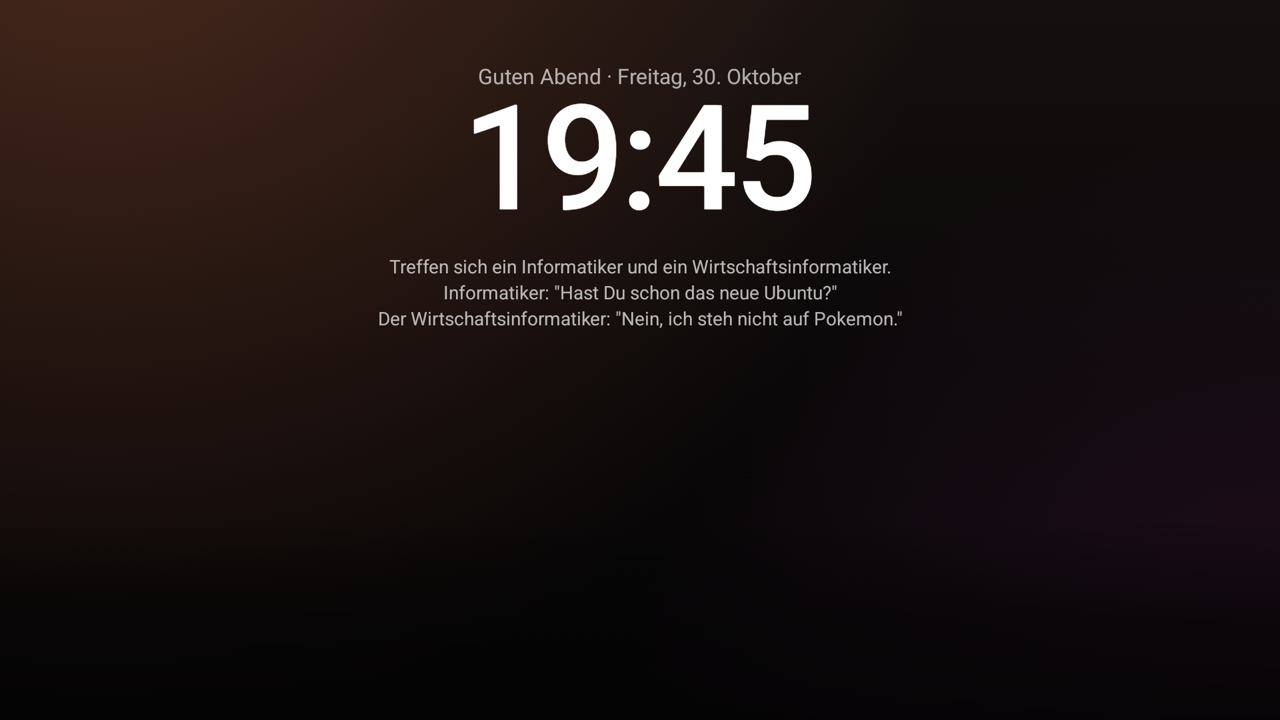
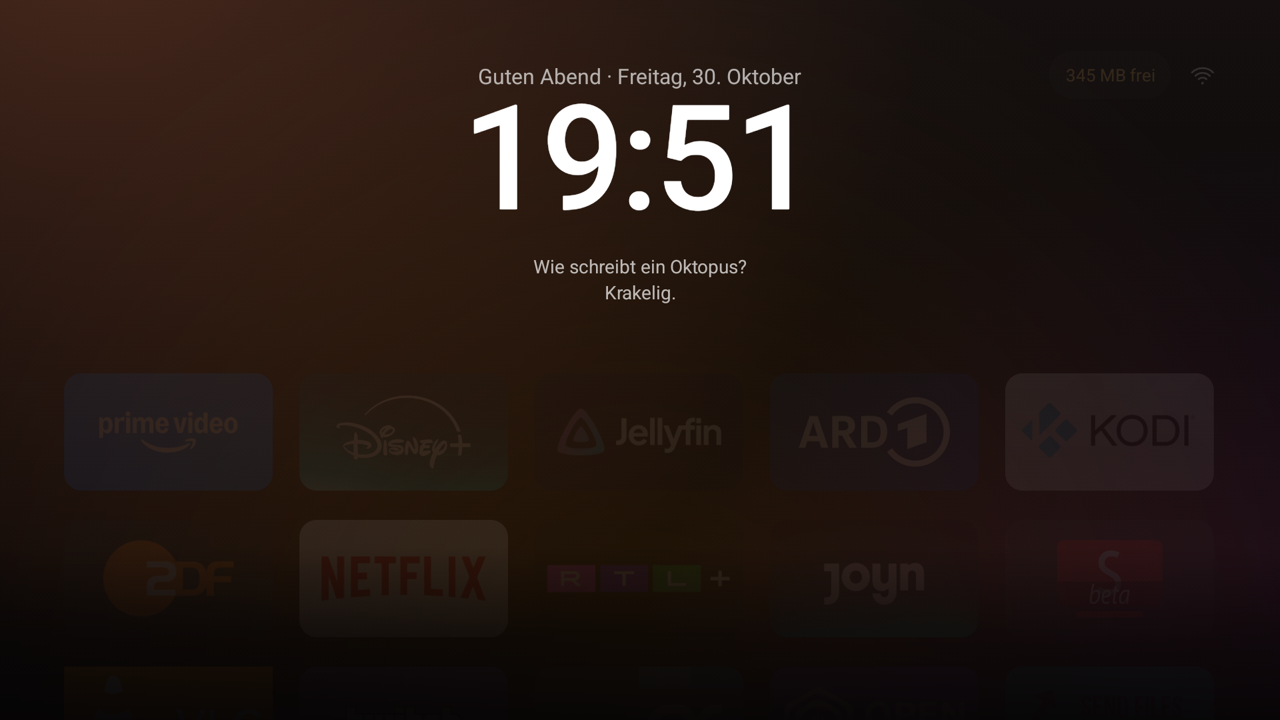
Cinema: rows clear the bottom edge, dimmed lights off, joke heading
- A focused lower row scrolls on until it clears the soft bottom edge; the
  first row scrolls back to the top. The edge is a little lighter.
- Lights off leaves the apps faintly visible instead of hiding them.
- Jokes from the Miscellaneous, Dark, Pun, Spooky and Christmas categories,
  two-part jokes with the punchline on the next line, under a small
  "Joke of the day" heading. A new source fetches again the same day.

diff --git a/src/com/ansub/tvhome/MainActivity.java b/src/com/ansub/tvhome/MainActivity.java
@@ -139,11 +139,12 @@ public class MainActivity extends Activity {
     private boolean clockCentred, alwaysNames, noNames, glassOnly, cinema;
     // Cinema: the others step back to this, the focused app grows a little more, the lights go off after
     // this long without a key, and the joke is fetched once a day.
-    private static final float SPOTLIGHT_REST = 0.5f, CINEMA_LIFT = 1.12f;
+    private static final float SPOTLIGHT_REST = 0.5f, CINEMA_LIFT = 1.12f, LIGHTS_DIM = 0.14f;
+    private static final int EDGE = 260; // the soft bottom edge's height
     private static final long LIGHTS_OFF_MS = 20000, LIGHTS_FADE_MS = 1200, GLOW_MS = 450;
-    private static final String JOKE_URL = "https://v2.jokeapi.dev/joke/Any?safe-mode&type=single&lang=";
+    private static final String JOKE_URL = "https://v2.jokeapi.dev/joke/Miscellaneous,Dark,Pun,Spooky,Christmas?lang=";
     private TextClock dateView;
-    private TextView jokeView;
+    private TextView jokeView, jokeHead;
     private View clockView, glowView, edgeView;
     private ScrollView scroller;
     private final Map<String, Integer> tints = new java.util.HashMap<>(); // each app's colour, worked out once
@@ -262,6 +263,13 @@ public class MainActivity extends Activity {
         tp.topMargin = px(-20 * clockSize / 176); // pull the big digits up under the date
         clock.addView(time, tp);
         if (cinema) {
+            // A small heading over the joke, hidden until there is one.
+            jokeHead = text(px(20), 0x80FFFFFF, semibold);
+            jokeHead.setText(Strings.t("Joke of the day").toUpperCase(java.util.Locale.getDefault()));
+            jokeHead.setLetterSpacing(0.14f);
+            LinearLayout.LayoutParams hp = new LinearLayout.LayoutParams(-2, -2);
+            hp.topMargin = px(14);
+            clock.addView(jokeHead, hp);
             jokeView = text(px(28), 0xB3FFFFFF, regular);
             jokeView.setGravity(Gravity.CENTER_HORIZONTAL);
             jokeView.setMaxLines(3);
@@ -269,8 +277,9 @@ public class MainActivity extends Activity {
             jokeView.setLineSpacing(px(6), 1f);
             jokeView.setText(getSharedPreferences(PREFS, 0).getString("joke", ""));
             LinearLayout.LayoutParams jp = new LinearLayout.LayoutParams(px(1300), -2);
-            jp.topMargin = px(12);
+            jp.topMargin = px(6);
             clock.addView(jokeView, jp);
+            jokeHead.setVisibility(jokeView.getText().length() > 0 ? View.VISIBLE : View.GONE);
         }
         clockView = clock;
         if (clockCentred) {
@@ -293,7 +302,7 @@ public class MainActivity extends Activity {
             stage.addView(glowView, new FrameLayout.LayoutParams(-1, -1));
             stage.addView(scroller, new FrameLayout.LayoutParams(-1, -1));
             edgeView = new View(this);
-            stage.addView(edgeView, new FrameLayout.LayoutParams(-1, px(300), Gravity.BOTTOM));
+            stage.addView(edgeView, new FrameLayout.LayoutParams(-1, px(EDGE), Gravity.BOTTOM));
             paintEdge(WALLPAPERS[wallpaper()]);
             setContentView(stage);
         } else setContentView(scroller);
@@ -501,9 +510,9 @@ public class MainActivity extends Activity {
         scroller.smoothScrollTo(0, 0);
         for (int i = 0; i < root.getChildCount(); i++) {
             View c = root.getChildAt(i);
-            if (c != clockView) c.animate().alpha(0f).setDuration(LIGHTS_FADE_MS).start();
+            if (c != clockView) c.animate().alpha(LIGHTS_DIM).setDuration(LIGHTS_FADE_MS).start();
         }
-        glowView.animate().alpha(0f).setDuration(LIGHTS_FADE_MS).start();
+        glowView.animate().alpha(0.3f).setDuration(LIGHTS_FADE_MS).start();
     };
 
     private void lightsOn(boolean fade) {
@@ -518,7 +527,7 @@ public class MainActivity extends Activity {
         if (fade) glowView.animate().alpha(1f).setDuration(FOCUS_MS * 2).start();
         else glowView.setAlpha(1f);
         View f = getCurrentFocus();
-        if (f != null) f.requestRectangleOnScreen(new android.graphics.Rect(0, 0, f.getWidth(), f.getHeight()));
+        if (f != null) clearEdge(f);
         root.removeCallbacks(lightsOff);
         root.postDelayed(lightsOff, LIGHTS_OFF_MS);
     }
@@ -537,13 +546,14 @@ public class MainActivity extends Activity {
         root.postDelayed(greeting, 15 * 60 * 1000);
     }
 
-    // The joke of the day: one a day from JokeAPI (safe mode only), kept for the day. Without a
-    // connection yesterday's stays.
+    // The joke of the day: one a day from JokeAPI (puns, dark, spooky, Christmas and the rest), kept for the
+    // day; a two-part joke shows its punchline on the next line. Without a connection yesterday's stays.
     private void loadJoke() {
         final SharedPreferences prefs = getSharedPreferences(PREFS, 0);
         java.util.Calendar now = java.util.Calendar.getInstance();
         final String today = now.get(java.util.Calendar.YEAR) + "-" + now.get(java.util.Calendar.DAY_OF_YEAR);
-        if (today.equals(prefs.getString("joke_day", null)) || jokeLoading) return;
+        if ((today.equals(prefs.getString("joke_day", null)) && JOKE_URL.equals(prefs.getString("joke_url", null)))
+                || jokeLoading) return;
         jokeLoading = true;
         final String lang = Arrays.asList("de", "cs", "es", "fr", "pt").contains(Strings.lang()) ? Strings.lang() : "en";
         new Thread(() -> {
@@ -557,7 +567,8 @@ public class MainActivity extends Activity {
                     byte[] buf = new byte[4096];
                     for (int n; (n = in.read(buf)) > 0; ) out.write(buf, 0, n);
                     org.json.JSONObject o = new org.json.JSONObject(out.toString("UTF-8"));
-                    if (!o.optBoolean("error", true)) joke = o.optString("joke", null);
+                    if (!o.optBoolean("error", true)) joke = "twopart".equals(o.optString("type"))
+                            ? o.optString("setup") + "\n" + o.optString("delivery") : o.optString("joke", null);
                 } finally {
                     c.disconnect();
                 }
@@ -566,8 +577,11 @@ public class MainActivity extends Activity {
             runOnUiThread(() -> {
                 jokeLoading = false;
                 if (got == null || got.trim().isEmpty()) return;
-                prefs.edit().putString("joke", got.trim()).putString("joke_day", today).apply();
-                if (jokeView != null) jokeView.setText(got.trim());
+                prefs.edit().putString("joke", got.trim()).putString("joke_day", today).putString("joke_url", JOKE_URL).apply();
+                if (jokeView != null) {
+                    jokeView.setText(got.trim());
+                    jokeHead.setVisibility(View.VISIBLE);
+                }
             });
         }).start();
     }
@@ -639,7 +653,7 @@ public class MainActivity extends Activity {
     private void paintEdge(int[] c) {
         int base = c[2] & 0x00FFFFFF;
         edgeView.setBackground(new GradientDrawable(GradientDrawable.Orientation.TOP_BOTTOM,
-                new int[] {base, 0xB0000000 | base, 0xF2000000 | base}));
+                new int[] {base, 0x99000000 | base, 0xE6000000 | base}));
     }
 
     // The wallpapers, each with a small dot of its colours. Moving through the list shows each one
@@ -847,7 +861,10 @@ public class MainActivity extends Activity {
             if (has) focusedKey = key;
             lift(v, bg, has, glass ? 0x13FFFFFF : 0xFF1E1A1C, glass ? 0x38FFFFFF : 0xFF1E1A1C,
                     px(RADIUS), px(RADIUS + RADIUS_UP));
-            if (cinema && has) spotlight(key);
+            if (cinema && has) {
+                spotlight(key);
+                v.post(() -> clearEdge(v));
+            }
             if (caption != null && alwaysNames) {
                 caption.animate().cancel();
                 caption.animate().alpha(has ? 1f : NAME_REST).setDuration(FOCUS_MS).setInterpolator(FOCUS_EASE).start();
@@ -976,6 +993,20 @@ public class MainActivity extends Activity {
             }
         }
         glow(tint != null ? (color & 0x00FFFFFF) | 0x66000000 : 0x26FFFFFF);
+    }
+
+    // The page only scrolls far enough to show a focused tile at all, which leaves a lower row under the
+    // soft edge. Scroll on until it's clear; the first row goes back to the top, clock and all.
+    private void clearEdge(View v) {
+        if (rowApps.indexOf(v.getTag()) >= 0 && rowApps.indexOf(v.getTag()) < perRow) {
+            scroller.smoothScrollTo(0, 0);
+            return;
+        }
+        int[] at = new int[2];
+        v.getLocationOnScreen(at);
+        int bottom = at[1] + v.getHeight() + px(24);
+        int limit = getResources().getDisplayMetrics().heightPixels - px(EDGE) + px(40);
+        if (bottom > limit) scroller.smoothScrollBy(0, bottom - limit);
     }
 
     // Fades the light behind the page to a new colour.

diff --git a/src/com/ansub/tvhome/Strings.java b/src/com/ansub/tvhome/Strings.java
@@ -15,7 +15,7 @@ final class Strings {
         "Rename", "Show hidden inputs", "TV", "Laptop", "PC", "Blu-ray", "Soundbar", "Type a name…",
         "Open Google TV", "Catch Home: on", "Catch Home: off",
         "Layout", "Classic", "Compact", "Cinema", "Minimal", "%s free",
-        "Good morning", "Good afternoon", "Good evening", "Good night",
+        "Good morning", "Good afternoon", "Good evening", "Good night", "Joke of the day",
     };
 
     // Keyed by language ("de"), or language-country ("zh-TW") where a country writes it differently.
@@ -34,7 +34,7 @@ final class Strings {
             "Umbenennen", "Ausgeblendete Eingänge anzeigen", "TV", "Laptop", "PC", "Blu-ray", "Soundbar", "Namen eingeben…",
             "Google TV öffnen", "Home-Taste abfangen: an", "Home-Taste abfangen: aus",
             "Layout", "Klassisch", "Kompakt", "Kino", "Minimal", "%s frei",
-            "Guten Morgen", "Guten Tag", "Guten Abend", "Gute Nacht",
+            "Guten Morgen", "Guten Tag", "Guten Abend", "Gute Nacht", "Witz des Tages",
         });
         LANGS.put("es", new String[] {
             "Ajustes", "Añadir app", "Red", "Sin conexión", "Sonido", "Imagen",

diff --git a/FORK.md b/FORK.md
@@ -23,15 +23,17 @@ gleich mit dem Original.
 **Kino-Layout**
 - Hintergrund leuchtet in der Farbe der markierten App (aus Banner/Icon berechnet, einmal pro App), weich überblendet.
 - Markierte App größer, mit Schatten in ihrer Farbe; die anderen gedimmt. Keine Namen unter den Kacheln.
-- Unterer Rand läuft wie eine Leinwand ins Dunkle aus.
-- „Licht aus“: nach 20 s ohne Taste bleiben nur Begrüßung, Uhr und Witz. Der erste Tastendruck weckt nur.
+- Unterer Rand läuft wie eine Leinwand ins Dunkle aus; markierte untere Reihen scrollen darüber hinaus.
+- „Licht aus“: nach 20 s ohne Taste bleiben Begrüßung, Uhr und Witz; die Apps nur noch schwach sichtbar.
+  Der erste Tastendruck weckt nur.
 - Begrüßung je nach Tageszeit vor dem Datum.
-- Witz des Tages von [JokeAPI](https://v2.jokeapi.dev) (safe mode, Sprache des TVs), einmal pro Tag geladen und
-  gespeichert. Dafür hat die App jetzt die Berechtigung `INTERNET`; andere Layouts gehen nicht ins Netz.
+- „Witz des Tages“ von [JokeAPI](https://v2.jokeapi.dev) (Kategorien Miscellaneous, Dark, Pun, Spooky, Christmas;
+  ohne safe mode; Sprache des TVs), zweiteilige Witze mit Pointe in der nächsten Zeile. Einmal pro Tag geladen
+  und gespeichert. Dafür hat die App jetzt die Berechtigung `INTERNET`; andere Layouts gehen nicht ins Netz.
 
-| Prime Video markiert | Licht aus |
-|---|---|
-| ![Kino, Prime Video](docs/screenshots/cinema-prime.png) | ![Kino, Licht aus](docs/screenshots/cinema-lights-off.png) |
+| Prime Video markiert | Dritte Reihe markiert | Licht aus |
+|---|---|---|
+| ![Kino, Prime Video](docs/screenshots/cinema-prime.png) | ![Kino, dritte Reihe](docs/screenshots/cinema-row3.png) | ![Kino, Licht aus](docs/screenshots/cinema-lights-off.png) |
 
 **Speicherhinweis**: oben rechts neben dem Netzwerk-Symbol, wenn weniger als 15 % frei sind (orange unter
 10 %). OK öffnet die Speicher-Einstellungen.
